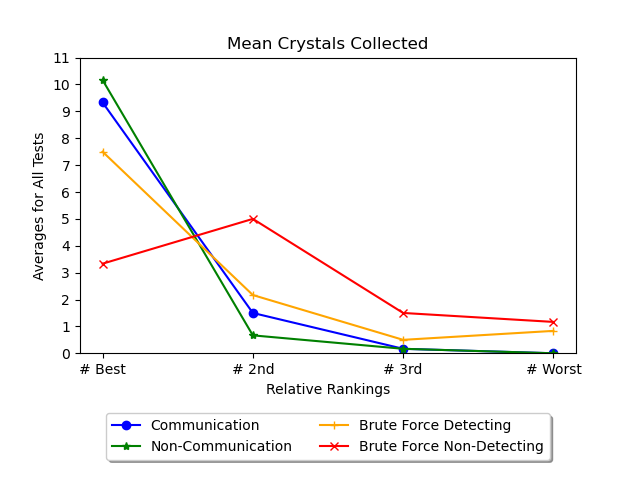
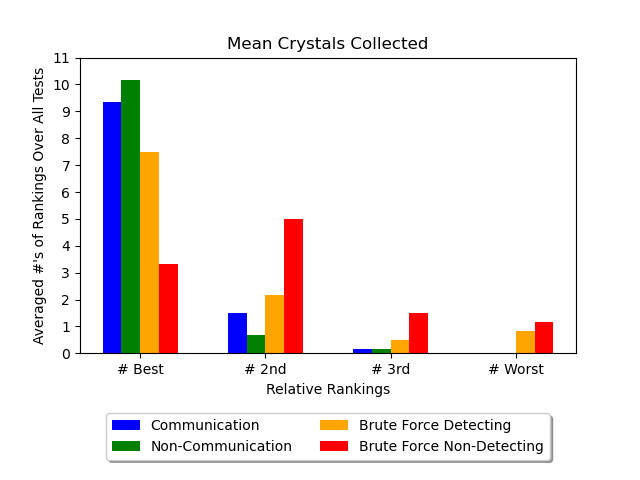
plotFinalMetrics.py: now makes bar graphs
7-4-2020 11:59 a.m.

diff --git a/Data/Graphs_And_Collated_Data/mean_non_productive_time/plotFinalMetrics.py b/Data/Graphs_And_Collated_Data/mean_non_productive_time/plotFinalMetrics.py
@@ -9,7 +9,7 @@ import numpy as np
 
 # Labels
 xLabel = "Relative Rankings"
-yLabel = "Averages for All Tests"
+yLabel = "Averaged #'s of Rankings Over All Tests"
 saveTitle = "Final_Metrics-Mean_Non_Productive_Time"
 graphTitle = "Mean Non-Productive Time"
 
@@ -21,10 +21,12 @@ dataT = data_csv.transpose()
 fmfig, fm = plt.subplots() # Random Crystals, Random Start
 
 # Plot data
-fm.plot(dataT["Communication"], color="blue", marker="o", label="Communication")
-fm.plot(dataT["Non-Communication"], color="green", marker="*", label="Non-Communication")
-fm.plot(dataT["Brute Force Detecting"], color="orange", marker="+", label="Brute Force Detecting")
-fm.plot(dataT["Brute Force Non-Detecting"], color="red", marker="x", label="Brute Force Non-Detecting")
+index = np.arange(4)
+bar_width = 0.15
+fm.bar(index, dataT["Communication"], bar_width, color="blue", label="Communication")
+fm.bar(index+bar_width, dataT["Non-Communication"], bar_width, color="green", label="Non-Communication")
+fm.bar(index+bar_width*2, dataT["Brute Force Detecting"], bar_width, color="orange", label="Brute Force Detecting")
+fm.bar(index+bar_width*3, dataT["Brute Force Non-Detecting"], bar_width, color="red", label="Brute Force Non-Detecting")
 
 # Change plot size
 box = fm.get_position()
@@ -39,6 +41,8 @@ fm.legend(loc='upper center', bbox_to_anchor=(0.5, -0.18), fancybox=True, shadow
 fm.set_title(graphTitle)
 
 # Set the axis labels
+fm.set_xticks(index + bar_width + bar_width / 2)
+fm.set_xticklabels(["# Best", "# 2nd", "# 3rd", "# Worst"])
 fm.set_xlabel(xLabel)
 fm.set_ylabel(yLabel)
 

diff --git a/Data/Graphs_And_Collated_Data/mean_crystal/plotFinalMetrics.py b/Data/Graphs_And_Collated_Data/mean_crystal/plotFinalMetrics.py
@@ -9,7 +9,7 @@ import numpy as np
 
 # Labels
 xLabel = "Relative Rankings"
-yLabel = "Averages for All Tests"
+yLabel = "Averaged #'s of Rankings Over All Tests"
 saveTitle = "Final_Metrics-Mean_Crystal"
 graphTitle = "Mean Crystals Collected"
 
@@ -21,10 +21,12 @@ dataT = data_csv.transpose()
 fmfig, fm = plt.subplots() # Random Crystals, Random Start
 
 # Plot data
-fm.plot(dataT["Communication"], color="blue", marker="o", label="Communication")
-fm.plot(dataT["Non-Communication"], color="green", marker="*", label="Non-Communication")
-fm.plot(dataT["Brute Force Detecting"], color="orange", marker="+", label="Brute Force Detecting")
-fm.plot(dataT["Brute Force Non-Detecting"], color="red", marker="x", label="Brute Force Non-Detecting")
+index = np.arange(4)
+bar_width = 0.15
+fm.bar(index, dataT["Communication"], bar_width, color="blue", label="Communication")
+fm.bar(index+bar_width, dataT["Non-Communication"], bar_width, color="green", label="Non-Communication")
+fm.bar(index+bar_width*2, dataT["Brute Force Detecting"], bar_width, color="orange", label="Brute Force Detecting")
+fm.bar(index+bar_width*3, dataT["Brute Force Non-Detecting"], bar_width, color="red", label="Brute Force Non-Detecting")
 
 # Change plot size
 box = fm.get_position()
@@ -39,6 +41,8 @@ fm.legend(loc='upper center', bbox_to_anchor=(0.5, -0.18), fancybox=True, shadow
 fm.set_title(graphTitle)
 
 # Set the axis labels
+fm.set_xticks(index + bar_width + bar_width / 2)
+fm.set_xticklabels(["# Best", "# 2nd", "# 3rd", "# Worst"])
 fm.set_xlabel(xLabel)
 fm.set_ylabel(yLabel)
 

diff --git a/Data/Graphs_And_Collated_Data/mean_time/plotFinalMetrics.py b/Data/Graphs_And_Collated_Data/mean_time/plotFinalMetrics.py
@@ -9,7 +9,7 @@ import numpy as np
 
 # Labels
 xLabel = "Relative Rankings"
-yLabel = "Averages for All Tests"
+yLabel = "Averaged #'s of Rankings Over All Tests"
 saveTitle = "Final_Metrics-Mean_Time"
 graphTitle = "Mean Time"
 
@@ -21,10 +21,12 @@ dataT = data_csv.transpose()
 fmfig, fm = plt.subplots() # Random Crystals, Random Start
 
 # Plot data
-fm.plot(dataT["Communication"], color="blue", marker="o", label="Communication")
-fm.plot(dataT["Non-Communication"], color="green", marker="*", label="Non-Communication")
-fm.plot(dataT["Brute Force Detecting"], color="orange", marker="+", label="Brute Force Detecting")
-fm.plot(dataT["Brute Force Non-Detecting"], color="red", marker="x", label="Brute Force Non-Detecting")
+index = np.arange(4)
+bar_width = 0.15
+fm.bar(index, dataT["Communication"], bar_width, color="blue", label="Communication")
+fm.bar(index+bar_width, dataT["Non-Communication"], bar_width, color="green", label="Non-Communication")
+fm.bar(index+bar_width*2, dataT["Brute Force Detecting"], bar_width, color="orange", label="Brute Force Detecting")
+fm.bar(index+bar_width*3, dataT["Brute Force Non-Detecting"], bar_width, color="red", label="Brute Force Non-Detecting")
 
 # Change plot size
 box = fm.get_position()
@@ -39,6 +41,8 @@ fm.legend(loc='upper center', bbox_to_anchor=(0.5, -0.18), fancybox=True, shadow
 fm.set_title(graphTitle)
 
 # Set the axis labels
+fm.set_xticks(index + bar_width + bar_width / 2)
+fm.set_xticklabels(["# Best", "# 2nd", "# 3rd", "# Worst"])
 fm.set_xlabel(xLabel)
 fm.set_ylabel(yLabel)
 
